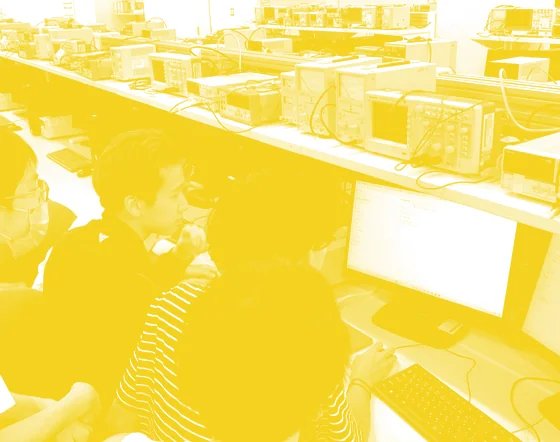
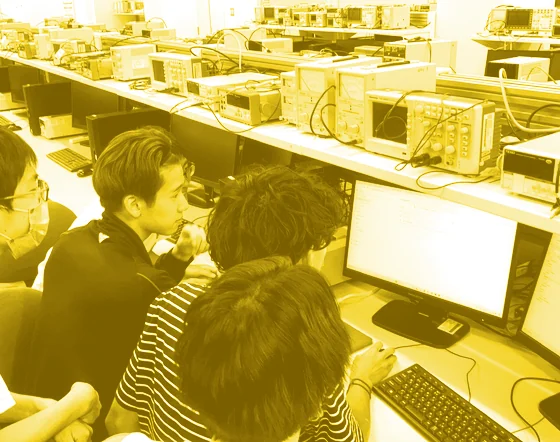
timetableとboothのコントラストを上げる
2点マップ（テーマカラー↔白）だと、テーマカラーより暗い色が存在しないため、
明るい色ほど眠くなる。とくに黄(#f4d21f)は締まらず、暗い会場の写真だった
timetableも中間調に寄っていた。

暗部＝同系色の濃い版 / 中間＝テーマカラー / 明部＝白 の3点マップに変えた。
暗部は赤 #6e0c10、黄 #7a5f00。前処理も autocontrast から「下位5%を黒・
上位95%を白に飛ばす → S字カーブで中間を締める」に変えている。

判断の根拠と数値は design-system.md に追記した。

diff --git a/docs/design-system.md b/docs/design-system.md
@@ -141,7 +141,10 @@ g  = ImageEnhance.Contrast(g).enhance(1.2)
 ImageOps.colorize(g, black=テーマカラー, white=(255, 255, 255)).save(出力, "WEBP", quality=85, method=6)
 ```
 
-- **γは色ごとに変える。** 黄（#f4d21f）は地の色が明るいので γ=1.7 まで上げないと沈まない。赤 1.1〜1.15 / 青 1.0〜1.3 が目安
+- **コントラストが出ないときは3点マップにする。** 暗部＝同系色の濃い版 / 中間＝テーマカラー / 明部＝白（`ImageOps.colorize(g, black=濃い色, mid=テーマカラー, white=白)`）。2点（テーマカラー↔白）だと**テーマカラーより暗い色が存在しない**ので、明るい色ほど眠くなる。とくに黄（#f4d21f）は2点では締まらない
+  - 実際に使った暗部の色: 赤 `#6e0c10` / 黄 `#7a5f00`
+  - 前処理は「下位5%を黒・上位95%を白に飛ばす（levels）→ S字カーブで中間を締める」。`autocontrast` だけだと元写真の明るさの差を吸収しきれない
+- 青（#1a33d6）と、元から明暗のはっきりした写真は2点マップで足りる。γは 赤 1.1〜1.15 / 青 1.0〜1.3 が目安
 - 書き出しは **WebP**。`src/assets/` に置けば Astro が最終形をさらに最適化する
 - **元画像は表示サイズの2倍**で用意し、`<Image>` に `densities={[1, 2]}` を付ける。付けないと指定幅ぶんしか生成されず、Retinaで甘くなる。`width` は**実際に表示される幅**に合わせること（ヒーローの写真は枠が320pxなのに245pxで指定されていた）
 
